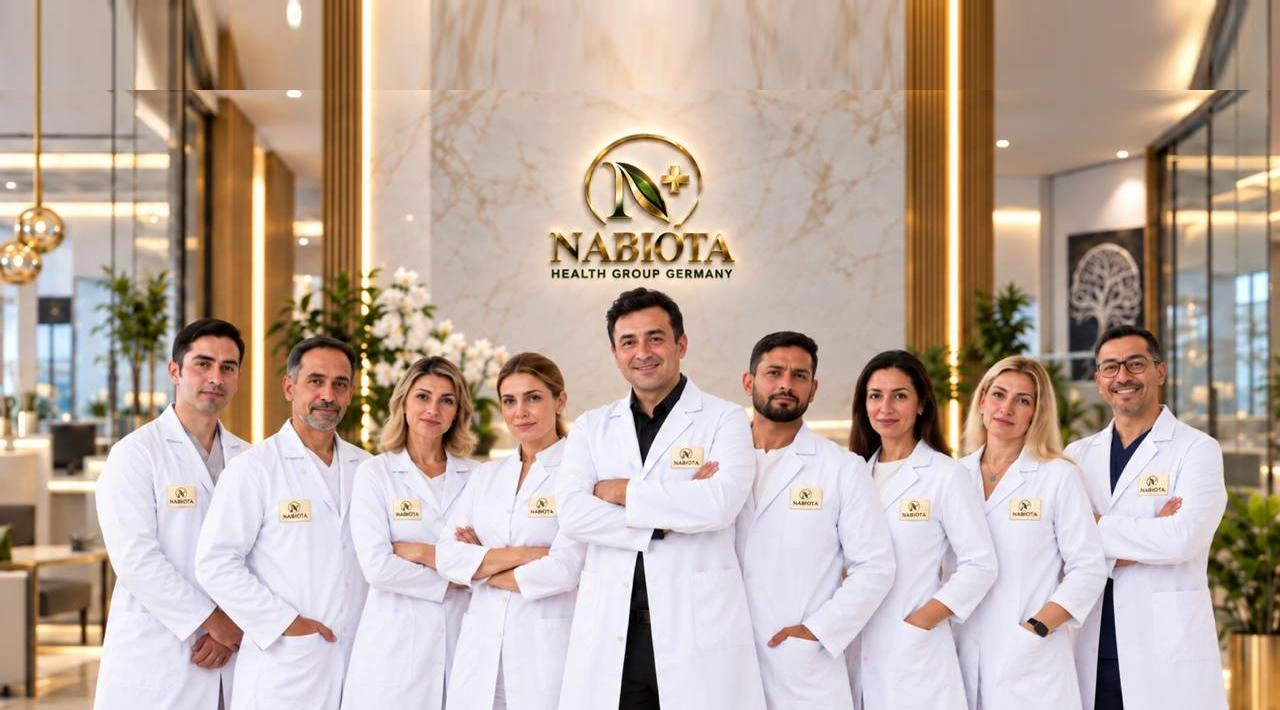
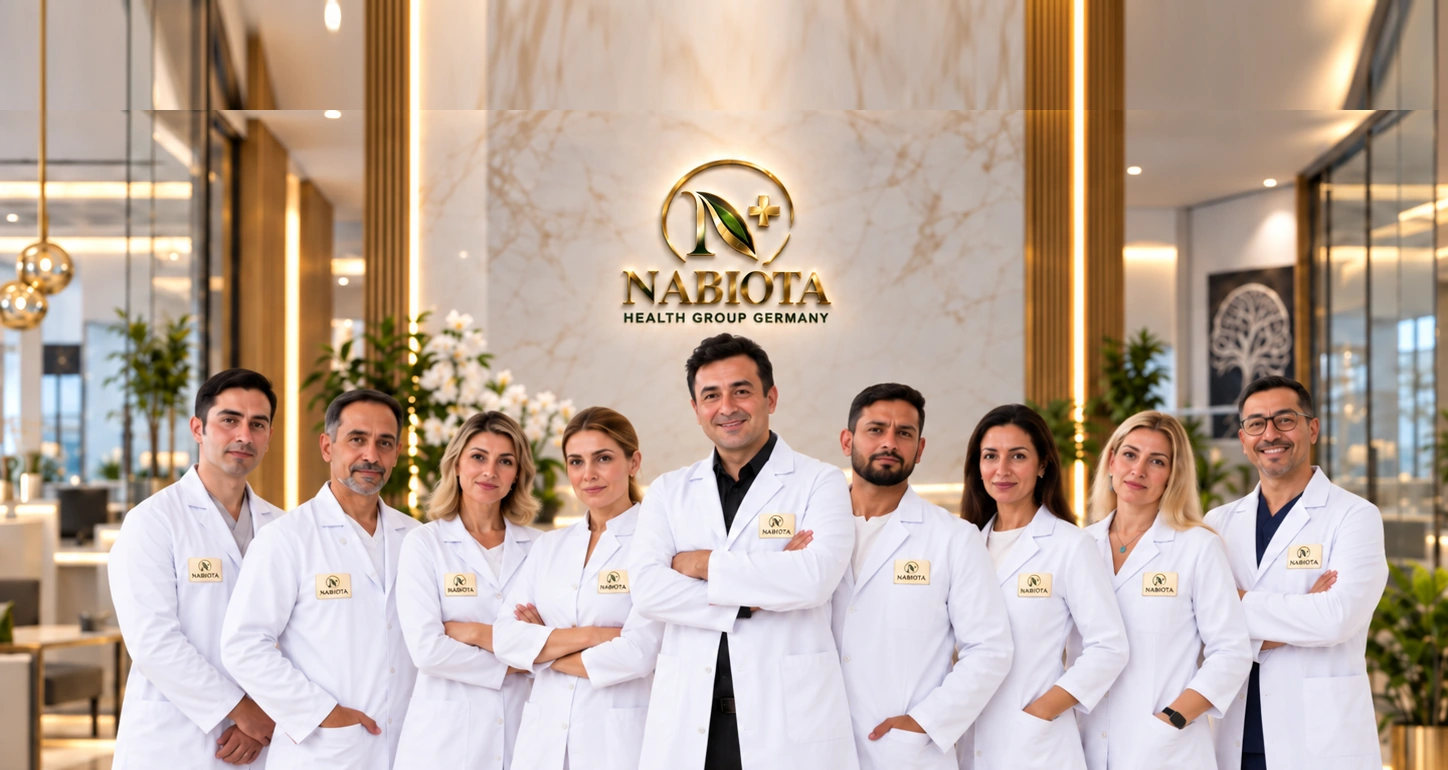
Integrate latest high-resolution team photo and optimize vertical anchoring for consistent scaling on zoom

diff --git a/ar/unser-team.html b/ar/unser-team.html
@@ -80,7 +80,7 @@
 <link href="https://cdn.jsdelivr.net/npm/@splidejs/splide@4.1.4/dist/css/splide.min.css" rel="stylesheet"/></head>
 <body>
 <div class="page-wrapper">
-<div class="hero-inner-sub" style="background: linear-gradient(rgba(9, 31, 34, 0.48), rgba(9, 31, 34, 0.48)), url('../img/team_together.webp') center/cover no-repeat #091f22;"><div class="container"><nav class="navbar" style="margin-bottom: 60px;">
+<div class="hero-inner-sub" style="background: linear-gradient(rgba(9, 31, 34, 0.48), rgba(9, 31, 34, 0.48)), url('../img/team_together.webp') center 15% / cover no-repeat #091f22;"><div class="container"><nav class="navbar" style="margin-bottom: 60px;">
 <a href="../index.html" style="display:flex;align-items:center;gap:12px;text-decoration:none;">
 <img src="../img/logo_white.webp" alt="NabiOta Health Group Germany" style="height:56px;width:auto;border-radius:12px;"/>
 <div class="brand-text-lockup" style="display:flex;flex-direction:column;line-height:1.1;justify-content:center;direction:ltr;text-align:left;">

diff --git a/en/unser-team.html b/en/unser-team.html
@@ -80,7 +80,7 @@
 <link href="https://cdn.jsdelivr.net/npm/@splidejs/splide@4.1.4/dist/css/splide.min.css" rel="stylesheet"/></head>
 <body>
 <div class="page-wrapper">
-<div class="hero-inner-sub" style="background: linear-gradient(rgba(9, 31, 34, 0.48), rgba(9, 31, 34, 0.48)), url('../img/team_together.webp') center/cover no-repeat #091f22;"><div class="container"><nav class="navbar" style="margin-bottom: 60px;">
+<div class="hero-inner-sub" style="background: linear-gradient(rgba(9, 31, 34, 0.48), rgba(9, 31, 34, 0.48)), url('../img/team_together.webp') center 15% / cover no-repeat #091f22;"><div class="container"><nav class="navbar" style="margin-bottom: 60px;">
 <a href="../index.html" style="display:flex;align-items:center;gap:12px;text-decoration:none;">
 <img src="../img/logo_white.webp" alt="NabiOta Health Group Germany" style="height:56px;width:auto;border-radius:12px;"/>
 <div class="brand-text-lockup" style="display:flex;flex-direction:column;line-height:1.1;justify-content:center;direction:ltr;text-align:left;">

diff --git a/ru/unser-team.html b/ru/unser-team.html
@@ -80,7 +80,7 @@
 <link href="https://cdn.jsdelivr.net/npm/@splidejs/splide@4.1.4/dist/css/splide.min.css" rel="stylesheet"/></head>
 <body>
 <div class="page-wrapper">
-<div class="hero-inner-sub" style="background: linear-gradient(rgba(9, 31, 34, 0.48), rgba(9, 31, 34, 0.48)), url('../img/team_together.webp') center/cover no-repeat #091f22;"><div class="container"><nav class="navbar" style="margin-bottom: 60px;">
+<div class="hero-inner-sub" style="background: linear-gradient(rgba(9, 31, 34, 0.48), rgba(9, 31, 34, 0.48)), url('../img/team_together.webp') center 15% / cover no-repeat #091f22;"><div class="container"><nav class="navbar" style="margin-bottom: 60px;">
 <a href="../index.html" style="display:flex;align-items:center;gap:12px;text-decoration:none;">
 <img src="../img/logo_white.webp" alt="NabiOta Health Group Germany" style="height:56px;width:auto;border-radius:12px;"/>
 <div class="brand-text-lockup" style="display:flex;flex-direction:column;line-height:1.1;justify-content:center;direction:ltr;text-align:left;">

diff --git a/tr/unser-team.html b/tr/unser-team.html
@@ -80,7 +80,7 @@
 <link href="https://cdn.jsdelivr.net/npm/@splidejs/splide@4.1.4/dist/css/splide.min.css" rel="stylesheet"/></head>
 <body>
 <div class="page-wrapper">
-<div class="hero-inner-sub" style="background: linear-gradient(rgba(9, 31, 34, 0.48), rgba(9, 31, 34, 0.48)), url('../img/team_together.webp') center/cover no-repeat #091f22;"><div class="container"><nav class="navbar" style="margin-bottom: 60px;">
+<div class="hero-inner-sub" style="background: linear-gradient(rgba(9, 31, 34, 0.48), rgba(9, 31, 34, 0.48)), url('../img/team_together.webp') center 15% / cover no-repeat #091f22;"><div class="container"><nav class="navbar" style="margin-bottom: 60px;">
 <a href="../index.html" style="display:flex;align-items:center;gap:12px;text-decoration:none;">
 <img src="../img/logo_white.webp" alt="NabiOta Health Group Germany" style="height:56px;width:auto;border-radius:12px;"/>
 <div class="brand-text-lockup" style="display:flex;flex-direction:column;line-height:1.1;justify-content:center;direction:ltr;text-align:left;">

diff --git a/unser-team.html b/unser-team.html
@@ -80,7 +80,7 @@
 <link href="https://cdn.jsdelivr.net/npm/@splidejs/splide@4.1.4/dist/css/splide.min.css" rel="stylesheet"/></head>
 <body>
 <div class="page-wrapper">
-<div class="hero-inner-sub" style="background: linear-gradient(rgba(9, 31, 34, 0.48), rgba(9, 31, 34, 0.48)), url('img/team_together.webp') center/cover no-repeat #091f22;"><div class="container"><nav class="navbar" style="margin-bottom: 60px;">
+<div class="hero-inner-sub" style="background: linear-gradient(rgba(9, 31, 34, 0.48), rgba(9, 31, 34, 0.48)), url('img/team_together.webp') center 15% / cover no-repeat #091f22;"><div class="container"><nav class="navbar" style="margin-bottom: 60px;">
 <a href="index.html" style="display:flex;align-items:center;gap:12px;text-decoration:none;">
 <img src="img/logo_white.webp" alt="NabiOta Health Group Germany" style="height:56px;width:auto;border-radius:12px;"/>
 <div class="brand-text-lockup" style="display:flex;flex-direction:column;line-height:1.1;justify-content:center;direction:ltr;text-align:left;">
